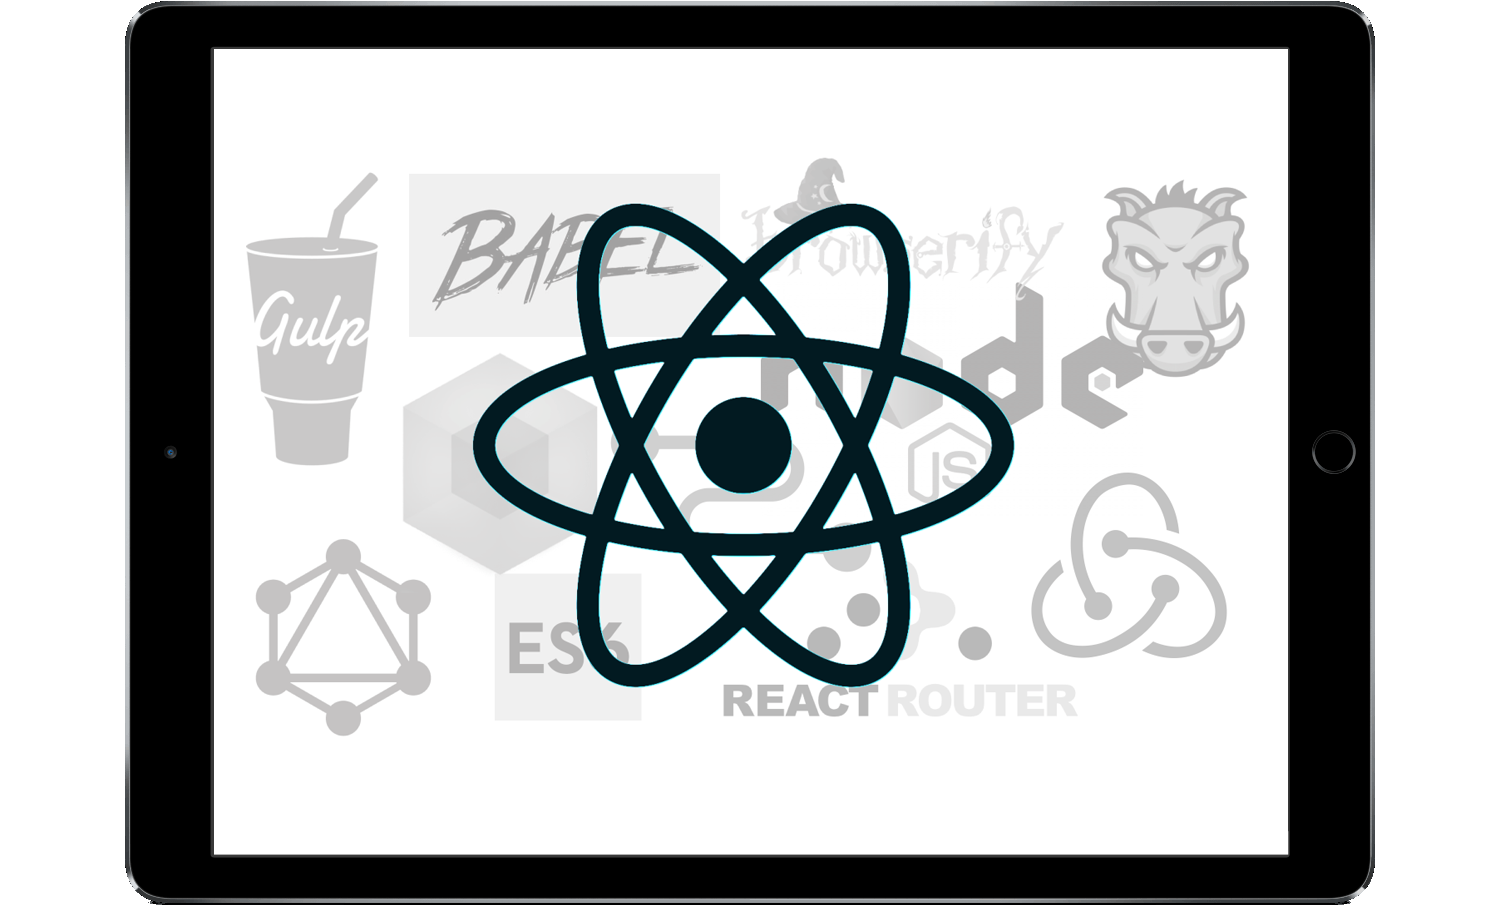
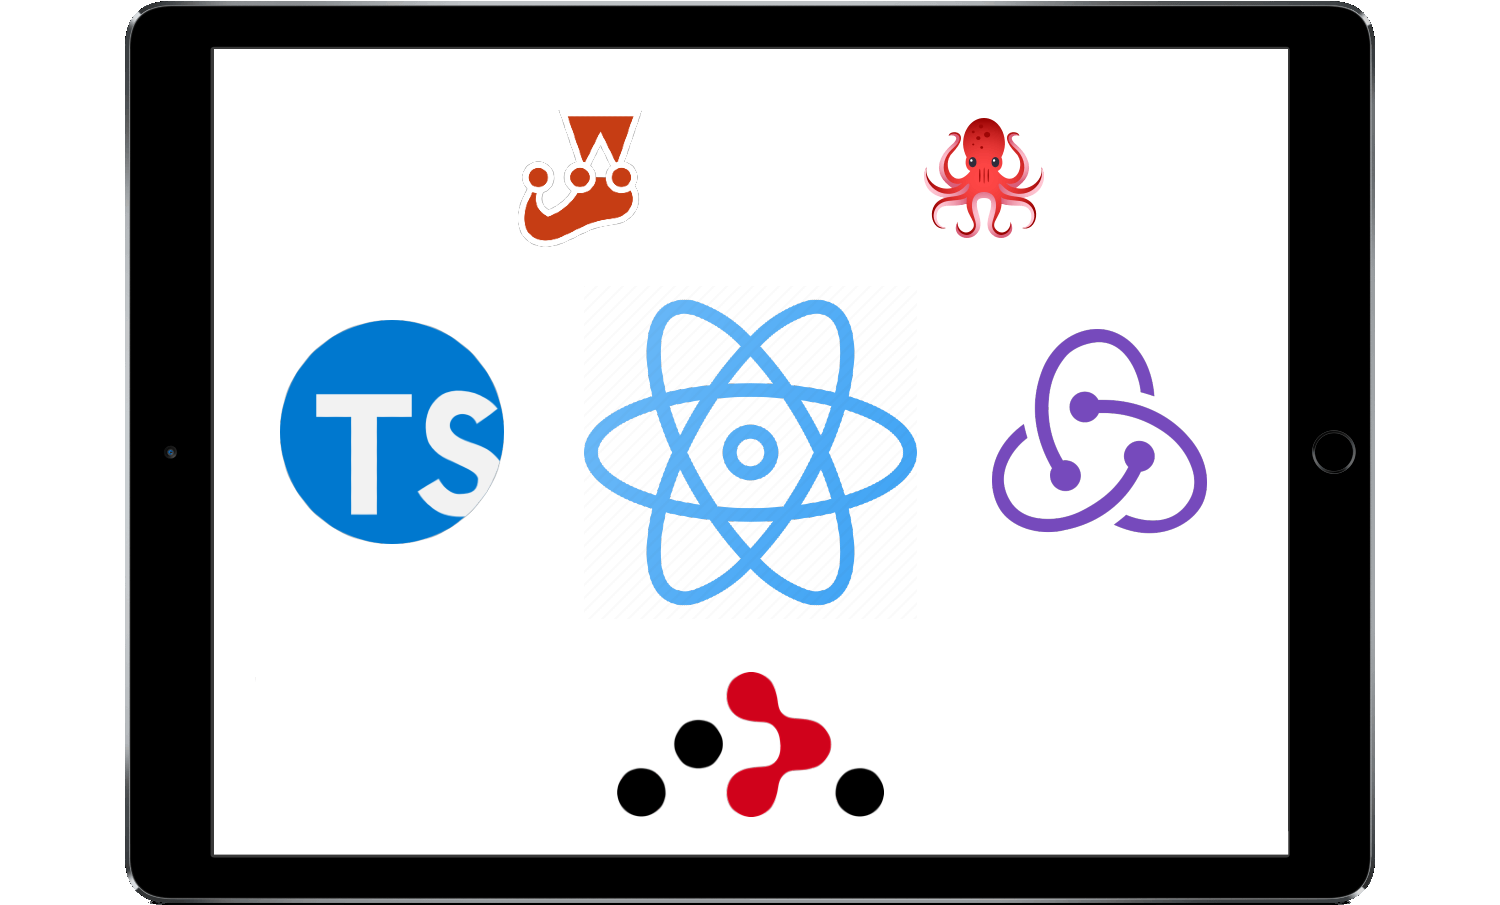
update

Changed region(s): [[0.1533, 0.1238, 0.828, 0.8972]]

diff --git a/index.html b/index.html
@@ -52,8 +52,8 @@
         </div>
       </div>
       <div class="headline">
-        <h1>The Front-End Developer <br />You Need.</h1>
-        <p>Stephan is the front-end developer you need to help you build what you want, exactly the way you want.</p>
+        <h1>The React Developer <br />You Need.</h1>
+        <p>Stephan is the web developer you need to help you build what you want, exactly the way you want.</p>
         <a href="#contact"><button type="button" name="hire-button" class="btn">Hire Now</button></a>
       </div>
       <div class="arrow">
@@ -82,17 +82,17 @@
       <div class="features-list">
         <div class="front">
           <div class="features-desc">
-            <h3>Full-Stack Development</h3>
-            <p>Seamless <strong>HTML5, CSS3 and JavaScript ES6/ES7</strong> development skills, using modern workflow tools like <strong>Git, NPM, Gulp and Webpack</strong>. Good abilities in <strong>PHP and MySQL</strong>.</p>
-            <a href="https://github.com/StephanOrgiazzi?tab=repositories" target="_blank">View demo projects on GitHub page</a>
+            <h3>React Development</h3>
+            <p>As a <strong>React developer</strong>, I am skilled in using the React library to <strong>build and maintain user interfaces</strong> for web applications. I make reusable components, manage state, and handle user interactions to create <strong>smooth and efficient user experiences</strong>. I'm also also proficient in using related technologies like native <strong>JavaScript, HTML, and CSS</strong>, and I can troubleshoot and debug issues to ensure that your applications are <strong>stable and reliable.</strong></p>
+            <a href="https://github.com/StephanOrgiazzi/allflicks" target="_blank">View demo project on GitHub</a>
           </div>
           <img src="img/screen1.png" alt="front-end development on laptop">
         </div>
         <div class="digital">
           <div class="features-desc">
-            <h3>React JS</h3>
-            <p><strong>React JS</strong> development with Redux and Webpack. Also good abilities with Google's Firebase cloud services.</p>
-            <a href="https://stephanorgiazzi.github.io/burger-shack/" target="_blank">View example demo React/Redux App</a>
+            <h3>Advanced workflow</h3>
+            <p><strong>TypeScript</strong> development with React and <strong>Redux</strong>. Test-driven development with <strong>React Testing Library and Jest</strong>. Also good abilities with Google's Firebase cloud services. I always try to stay up-to-date with the latest best practices and libraries in the React ecosystem to continue improving my skills and the quality of my work.</p>
+            <a href="https://github.com/StephanOrgiazzi/allflicks" target="_blank">View example demo React TypeScript app</a>
           </div>
           <img src="img/screen2.png" alt="keynote presentation on ipad">
         </div>
